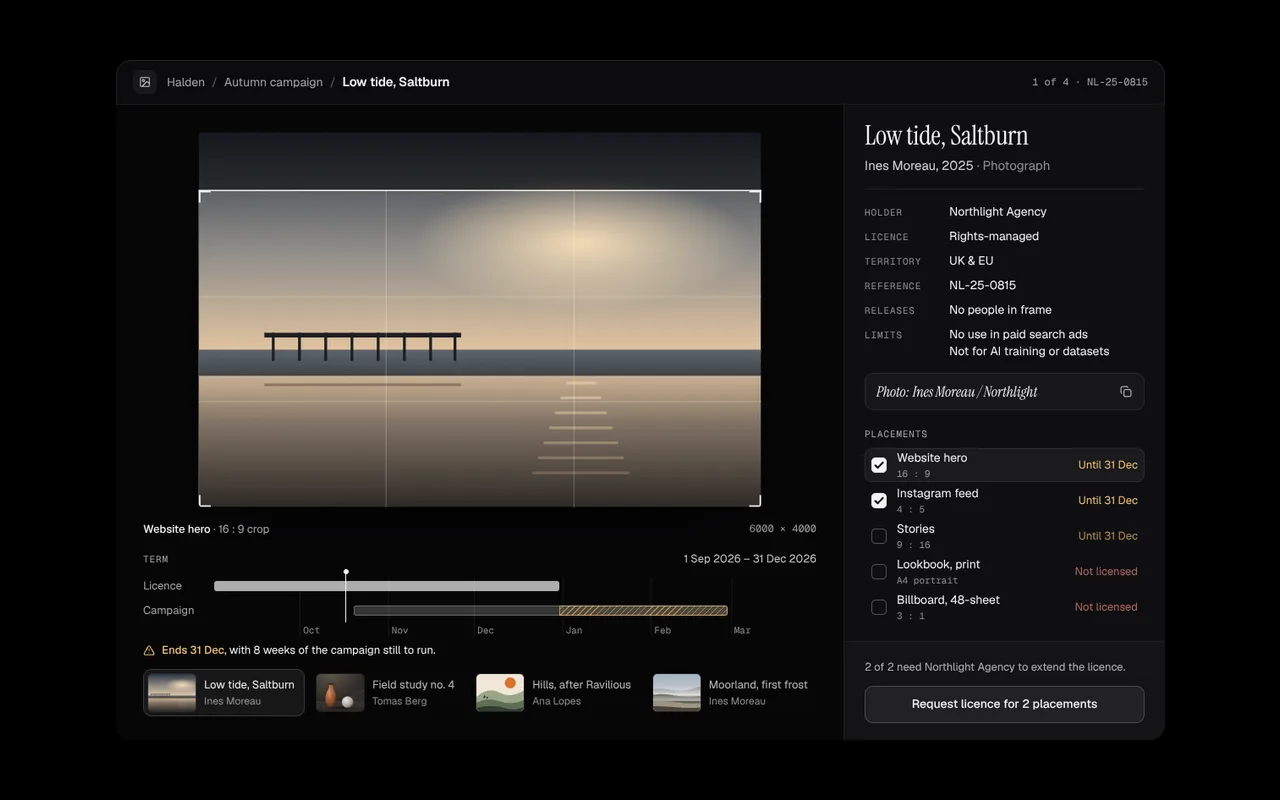
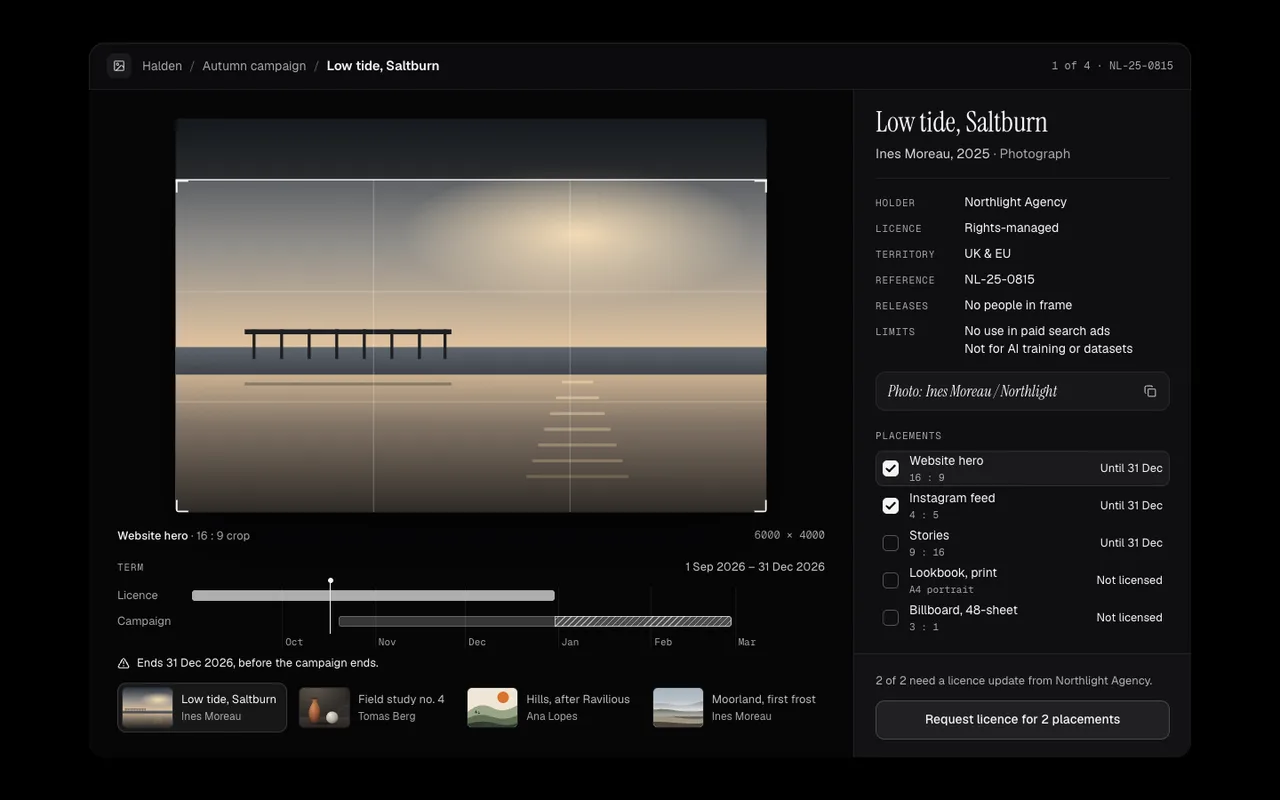
test(editor-asset-license-sheet): cover scoped receipts and complete campaign dates
Add the registered editor workflow probe, refresh metadata/poster and record verified progress. The previous film stays in place because the new capture failed source-frame timing guards.

diff --git a/docs/review/HANDOFF_TASKS.md b/docs/review/HANDOFF_TASKS.md
@@ -156,6 +156,10 @@ and how to know it's done. Pick any of them up independently. Background, briefs
 
 - Task 1: Pivot Configurator has a reviewed monochrome 5.3s film showing regrouping, shared-layout axis swap and the settled Q4/Enterprise drill-down with eight deals. Full-viewport framing retains the expanded inspector, with a matching settled Next poster. Source-change and moving-frame guards pass with no stalls. 128 listed films remain.
 
+- Task 5: Asset Licence Sheet now covers crop focus, keyboard asset/placement navigation, exact request/add payloads, failed retries, pending locks, missing handlers, late-reply isolation and arriving assets. Both campaign boundaries and real ISO dates determine clearance; malformed data has a written state. Choices normalize into known project order, retired panels leave immediately, and receipts require host acknowledgement without assumed credit propagation or reply times. Its Next-backed regression, twenty-eight theme/state accessibility audits including 320px/custom accents, four preview controls and settled Next poster pass. 70 components remain without dedicated coverage.
+
+- Task 1: Asset Licence Sheet framing contains every demo state, but its fresh film was rejected for a 172ms source-animation gap and 468ms source-to-encoded-frame delay. The previous film is retained; the listed backlog remains 128. Investigate alongside the other recorder/source-timing failures before replacing it.
+
 ## Ground rules (read first)
 
 - Two repos. Public: `richawo/Design-components-for-AI-agents` (this one). Pro: `richawo/Design-for-AI`, private, cloned
@@ -292,14 +296,14 @@ tests/browser/pro-50-<suite>-probe.mjs <slug>` (suite = legal, saas, finance, hr
 
 ## 5. Write browser probes for components that have none
 
-71 finished components still have no dedicated browser regression probe. For each, read its source and
+70 finished components still have no dedicated browser regression probe. For each, read its source and
 `meta.json`, then add a case to the appropriate `tests/browser/*.mjs` suite (or a new probe registered in
 `scripts/test-components.mjs`) covering: the signature interaction, keyboard paths, failed-then-successful callbacks
 with drafts kept (where it has async callbacks), and empty or invalid data. Use `tests/browser/pro-50/hr-org-explorer.mjs`
 as the model for style and depth. Mobile components render through React Native web (`scripts/lib/component-fixture.mjs` aliases it);
 see `tests/browser/mobile-accessibility-probe.mjs` for a native example.
 
-`editor-asset-license-sheet`, `editor-branch-compare`, `editor-color-token-studio`
+`editor-branch-compare`, `editor-color-token-studio`
 `editor-export-preset`, `editor-font-pairing`, `editor-keyframe-track`, `editor-layer-stack`
 `editor-spacing-inspector`, `editor-storyboard-strip`, `editor-version-restore`, `three-exploded-assembly`
 `three-material-inspector`, `agents-budget-guard`, `agents-dependency-board`, `agents-run-replay`
